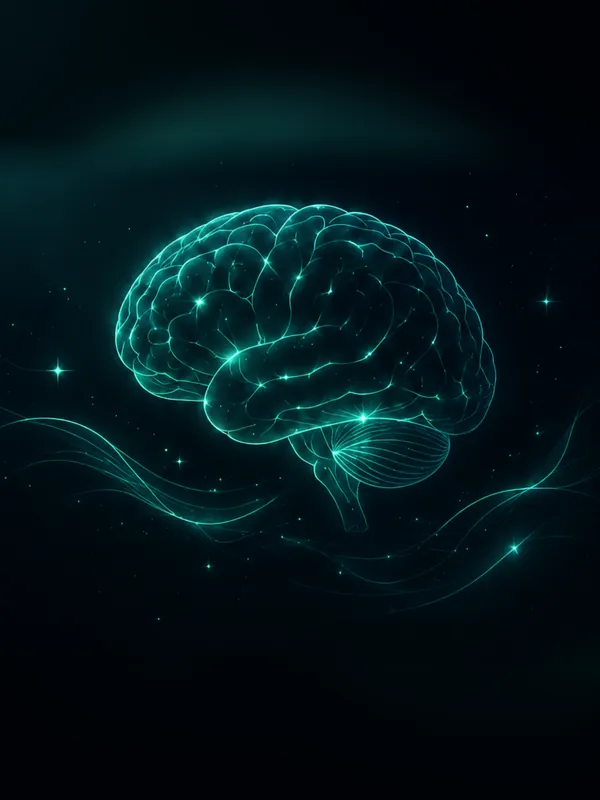
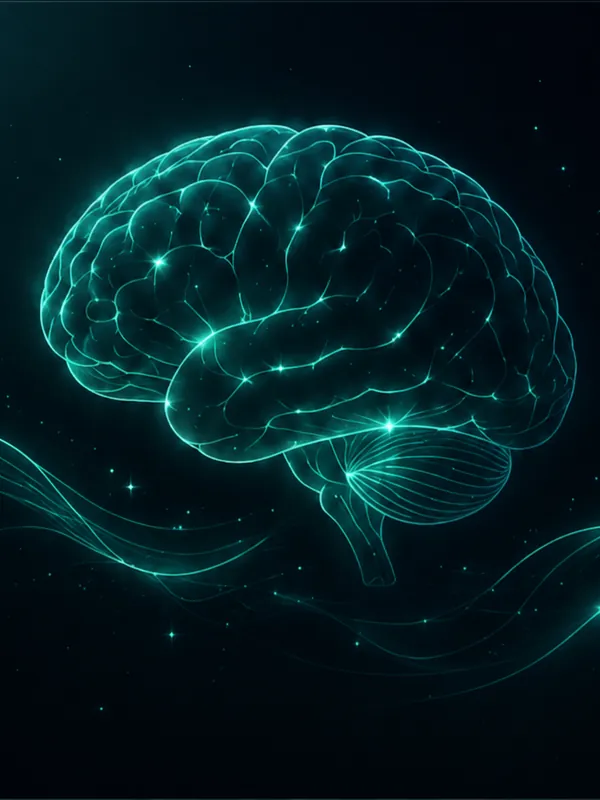
antichaos: tight crop instead of fitting the whole brain (COVER_V 4)
Fitted whole, the brain was small, and a draft poster gets filter:
saturate(.6) brightness(.75) on top of that - the two together read as a pale patch
rather than a cover. The tight crop trims the frontal lobe and the edges of the
cerebellum, which is the cheaper loss: mean tile luminance under the dim filter goes
from 0.007 to 0.012, and title contrast under the same filter barely moves
(11.02 -> 10.89, against the AA threshold of 4.5).

nutrition stays fitted whole - the plate is large enough to hold the frame there.

⚠ COVER_V lives inside app.js, so bumping it REQUIRES bumping app.js?v= as well:
otherwise the browser serves the cached bundle carrying the old COVER_V and therefore
the old image. The cover counter cannot deliver itself. app.js?v=85 -> 86;
style.css untouched at v=62.

Also documented in CLAUDE.md the shape of Irena's source files, since the next person
replacing covers will hit it: they are not artwork but composed LANDSCAPE cards with a
~45px black margin, rounded corners and a glyph badge top-right, so the crop must run
in two steps or the poster gets black bars and a 14px sliver of sliced badge.

diff --git a/app.js b/app.js
@@ -1085,11 +1085,21 @@ function escapeHtml(s) {
 // woman-body, nutrition, glutes; широкие версии и лотос rejuvenation не тронуты.
 // Исходники - лендскейпные КАРТОЧКИ (чёрное поле по краям, скруглённые углы, бейдж
 // с глифом в правом верхнем углу), поэтому кроп в два шага: обрезка по содержимому,
-// затем 3:4. У antichaos и nutrition центральный кроп резал мозг и круг тарелки -
-// они вписаны целиком, фон добит размытой копией себя с растушёвкой кромки.
+// затем 3:4. nutrition центральный кроп резал по кругу тарелки, поэтому он вписан
+// ЦЕЛИКОМ, фон добит размытой копией себя с растушёвкой кромки на 90px (плоская
+// подложка не годится: на ней видны скруглённые углы карточки, плитка читается
+// наклейкой).
 // woman-body в библиотеке НЕ используется (ЖКТ и тело - один спринт): лежит как
 // ассет под шапку дорожки «только тело».
-const COVER_V = 3;
+// v4 (2026-08-17): antichaos переведён с вписывания на ТЕСНЫЙ кроп. Вписанный мозг
+// был мелким, а сверху на него ложится ещё filter приглушения черновика - плитка
+// читалась бледным пятном. Тесный кроп срезает лобную часть и края мозжечка, зато
+// средняя яркость плитки под фильтром выросла с 0.007 до 0.012, а контраст заголовка
+// под фильтром не пострадал (11.02 -> 10.89 при пороге AA 4.5).
+// ⚠ COVER_V ЖИВЁТ ВНУТРИ ЭТОГО ФАЙЛА, поэтому его бамп ТРЕБУЕТ бампа app.js?v= в
+// index.html. Иначе браузер отдаст закэшированный бандл со старым COVER_V и старую
+// картинку - счётчик обложек сам себя не доставит.
+const COVER_V = 4;
 // ICON_V здесь СОЗНАТЕЛЬНО НЕТ. Иконки плиток, медальон Подружки и аватар стоят
 // статикой в index.html и версионируются прямо в src (`icons/…png?v=N`). Константа
 // в JS их не касалась бы и стала бы вторым источником правды, который молча

diff --git a/index.html b/index.html
@@ -585,6 +585,6 @@
 
   <!-- supabase-js только для auth-экранов (пароль + гейт); чекаут работает без него -->
   <script src="https://cdn.jsdelivr.net/npm/@supabase/supabase-js@2/dist/umd/supabase.js"></script>
-  <script src="app.js?v=85"></script>
+  <script src="app.js?v=86"></script>
 </body>
 </html>

diff --git a/CLAUDE.md b/CLAUDE.md
@@ -7,12 +7,15 @@
 ## Деплой
 - `git push origin main` → GitHub Pages публикует за ~1 мин.
 - **ВСЕГДА бампать `?v=N`** у `app.js`/`style.css` в `index.html` (иначе кэш).
-  Счётчики РАЗНЫЕ и бампаются независимо. Сейчас **app.js?v=85, style.css?v=62**.
+  Счётчики РАЗНЫЕ и бампаются независимо. Сейчас **app.js?v=86, style.css?v=62**.
 - **Обложки в `covers/` версионируются ОТДЕЛЬНО** — константой `COVER_V` в `app.js`.
   Меняете картинку под тем же именем — поднимайте `COVER_V`, иначе Pages отдаст старую.
-  Сейчас `COVER_V = 3` (2026-08-17, шесть новых разноцветных ПОСТЕРОВ от Ирены; широкие
-  версии и лотос rejuvenation не тронуты). Счётчик ОДИН
-  на все 14 файлов: подмена одной картинки заставляет перекачать и остальные.
+  Сейчас `COVER_V = 4` (2026-08-17, шесть новых разноцветных ПОСТЕРОВ от Ирены, затем
+  antichaos перекадрирован тесно; широкие версии и лотос rejuvenation не тронуты).
+  Счётчик ОДИН на все 14 файлов: подмена одной картинки заставляет перекачать и остальные.
+- ⚠ **`COVER_V` лежит ВНУТРИ `app.js`, поэтому его бамп требует бампа `app.js?v=`.**
+  Иначе браузер отдаст закэшированный бандл со старым `COVER_V` и старую картинку -
+  счётчик обложек сам себя не доставит.
 - Проверка живости: `curl https://app.irenabio.com/?cb=RND | grep -oE 'app.js\?v=[0-9]+'`.
 
 ## ГРАБЛЯ: `hidden` НЕ СКРЫВАЕТ, если у элемента есть авторский `display` (2026-08-16)
@@ -95,6 +98,18 @@
   **У спринта затемнение своё** (`.listcover` макета: `.6` на 42%, `.2` внизу) и своя
   рамка `#view-sprint .day-hero { background-position: 70% center }` — правило
   ОБЯЗАНО быть скоуплено, ту же разметку `.day-hero` носят день и экран подписки.
+- **ГРАБЛЯ ИСХОДНИКОВ (2026-08-17): Ирена присылает не графику, а свёрстанные
+  ЛЕНДСКЕЙПНЫЕ карточки** - чёрное поле ~45px по краям, скруглённые углы и
+  полупрозрачный бейдж с глифом в правом верхнем углу, пропорции около 1.11-1.25.
+  Поэтому кроп в ДВА шага: сначала обрезка по содержимому (снимает и поле, и
+  скругления), потом 3:4. Без первого шага в постер попадают чёрные полосы сверху и
+  снизу и полоска РАЗРЕЗАННОГО бейджа у правого края (14px на glutes).
+  3:4 срезает 32-40% ширины, объект по центру это обычно выдерживает. Если объект
+  широкий или круглый (мозг, тарелка) - вписывать целиком, но НЕ на плоскую подложку:
+  на ней видны скруглённые углы карточки и плитка читается наклейкой. Фон добивать
+  размытой затемнённой копией самой картинки с растушёвкой кромки. И помнить, что на
+  черновик сверху ляжет ещё `filter` приглушения: мелкий вписанный объект под ним
+  превращается в бледное пятно (так и вышло с antichaos, вернули тесный кроп).
 - `background-position`: постеры `center`, широкие `center right`, спринт `70% center`.
   Постеры на `3 / 4`. Высоты из макета (`.listcover` 186px, `.daycover` 210px) НЕ
   переносились — у нас высота от паддинга, так было и до обложек.
